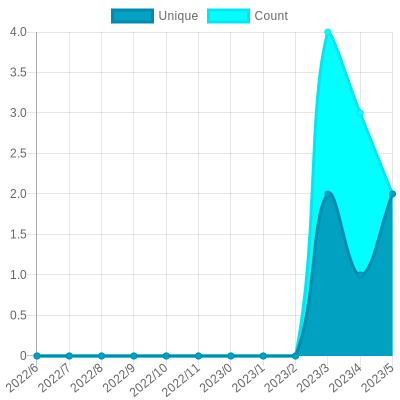
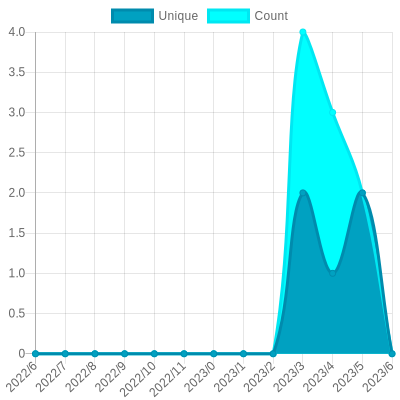
Update views

diff --git a/README.md b/README.md
@@ -26,7 +26,7 @@ The project created and maintained by [gayanvoice](https://github.com/gayanvoice
 			</a>
 		</td>
 		<td>
-			2022/6/29 12:00 AM UTC
+			2022/6/30 12:31 AM UTC
 		</td>
 		<td>
 			5
@@ -37,7 +37,7 @@ The project created and maintained by [gayanvoice](https://github.com/gayanvoice
 	</tr>
 </table>
 
-<small><i>Last updated on 2022/7/1 6:07 PM UTC</i></small>
+<small><i>Last updated on 2022/7/2 12:36 AM UTC</i></small>
 
 ## ✂Copy and 📋 Paste
 ### Total Views Badge

diff --git a/readme/279336970/year.md b/readme/279336970/year.md
@@ -20,6 +20,17 @@
 	</tr>
 	<tr>
 		<td>
+			<code>2022/7/1</code>
+		</td>
+		<td>
+			<code>0</code>
+		</td>
+		<td>
+			<code>0</code>
+		</td>
+	</tr>
+	<tr>
+		<td>
 			<code>2022/6/1</code>
 		</td>
 		<td>
@@ -153,7 +164,7 @@
 </table>
 
 </details>
-<small><i>Last updated on 2022/7/1 6:07 PM UTC</i></small>
+<small><i>Last updated on 2022/7/2 12:36 AM UTC</i></small>
 
 ## ✂Copy and 📋 Paste
 ### SVG Badge
